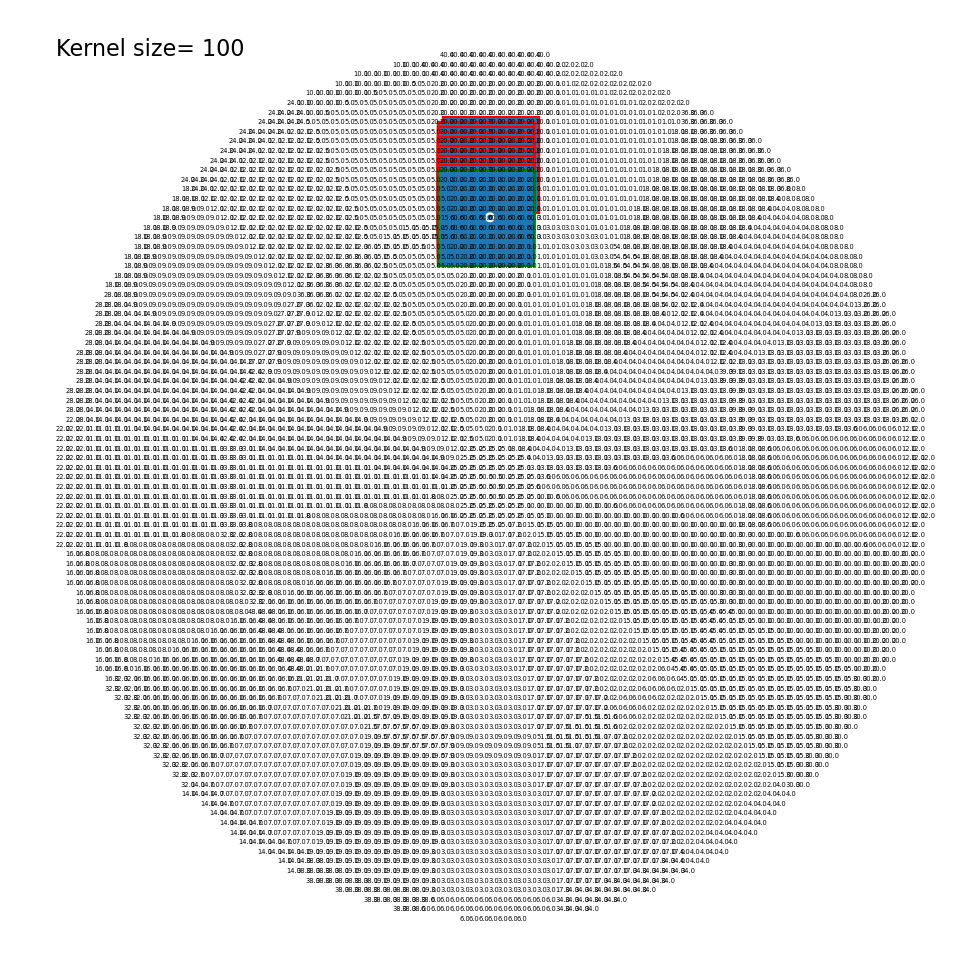
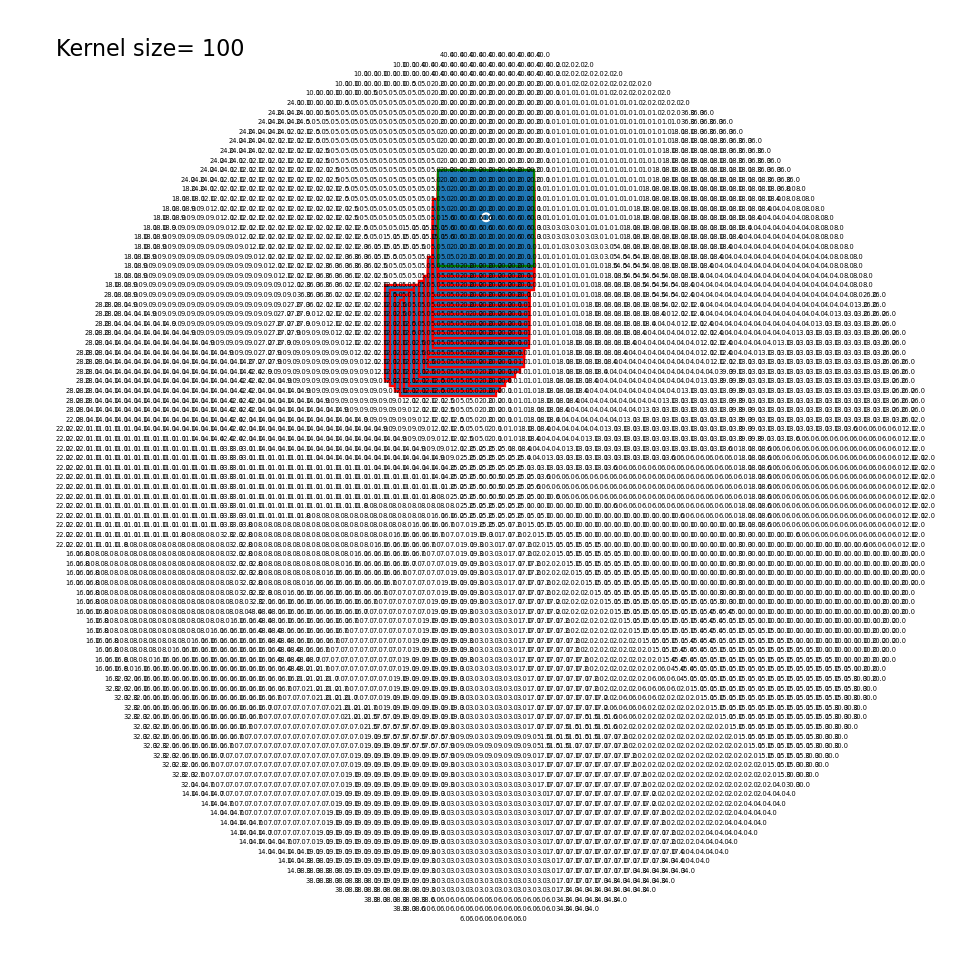
Fix centering of graph circle

Changed region(s): [[0.3689, 0.2152, 0.5533, 0.4303], [0.4303, 0.0922, 0.5533, 0.2152], [0.4918, 0.2152, 0.5225, 0.2459]]

diff --git a/dartboard.py b/dartboard.py
@@ -136,7 +136,7 @@ class Dartboard:
         
         # Display green dot at exact point of maxima 
         # plt.plot(1200 - kernel_centres[-1][1], 1200 - kernel_centres[-1][0], 'go')
-        circle = plt.Circle(xy=(1200 - kernel_centres[-1][1], 1200 - kernel_centres[-1][0]), radius=4, linewidth=2, edgecolor='w')
+        circle = plt.Circle(xy=(kernel_centres[-1][1], 1200 - kernel_centres[-1][0]), radius=4, linewidth=2, edgecolor='w')
         plt.gca().add_patch(circle)
         
         # Plot dartboard values

diff --git a/main.py b/main.py
@@ -1,6 +1,6 @@
 import numpy as np
 from collections import namedtuple
-from generate_dartboard import GenerateDartboard
+from dartboard import GenerateDartboard
 from gaussian import Gaussian
 
 

diff --git a/gaussian.py b/gaussian.py
@@ -61,5 +61,3 @@ class Gaussian():
         p = np.sum(db * self.gaussian)
         
         return p
-        
-
